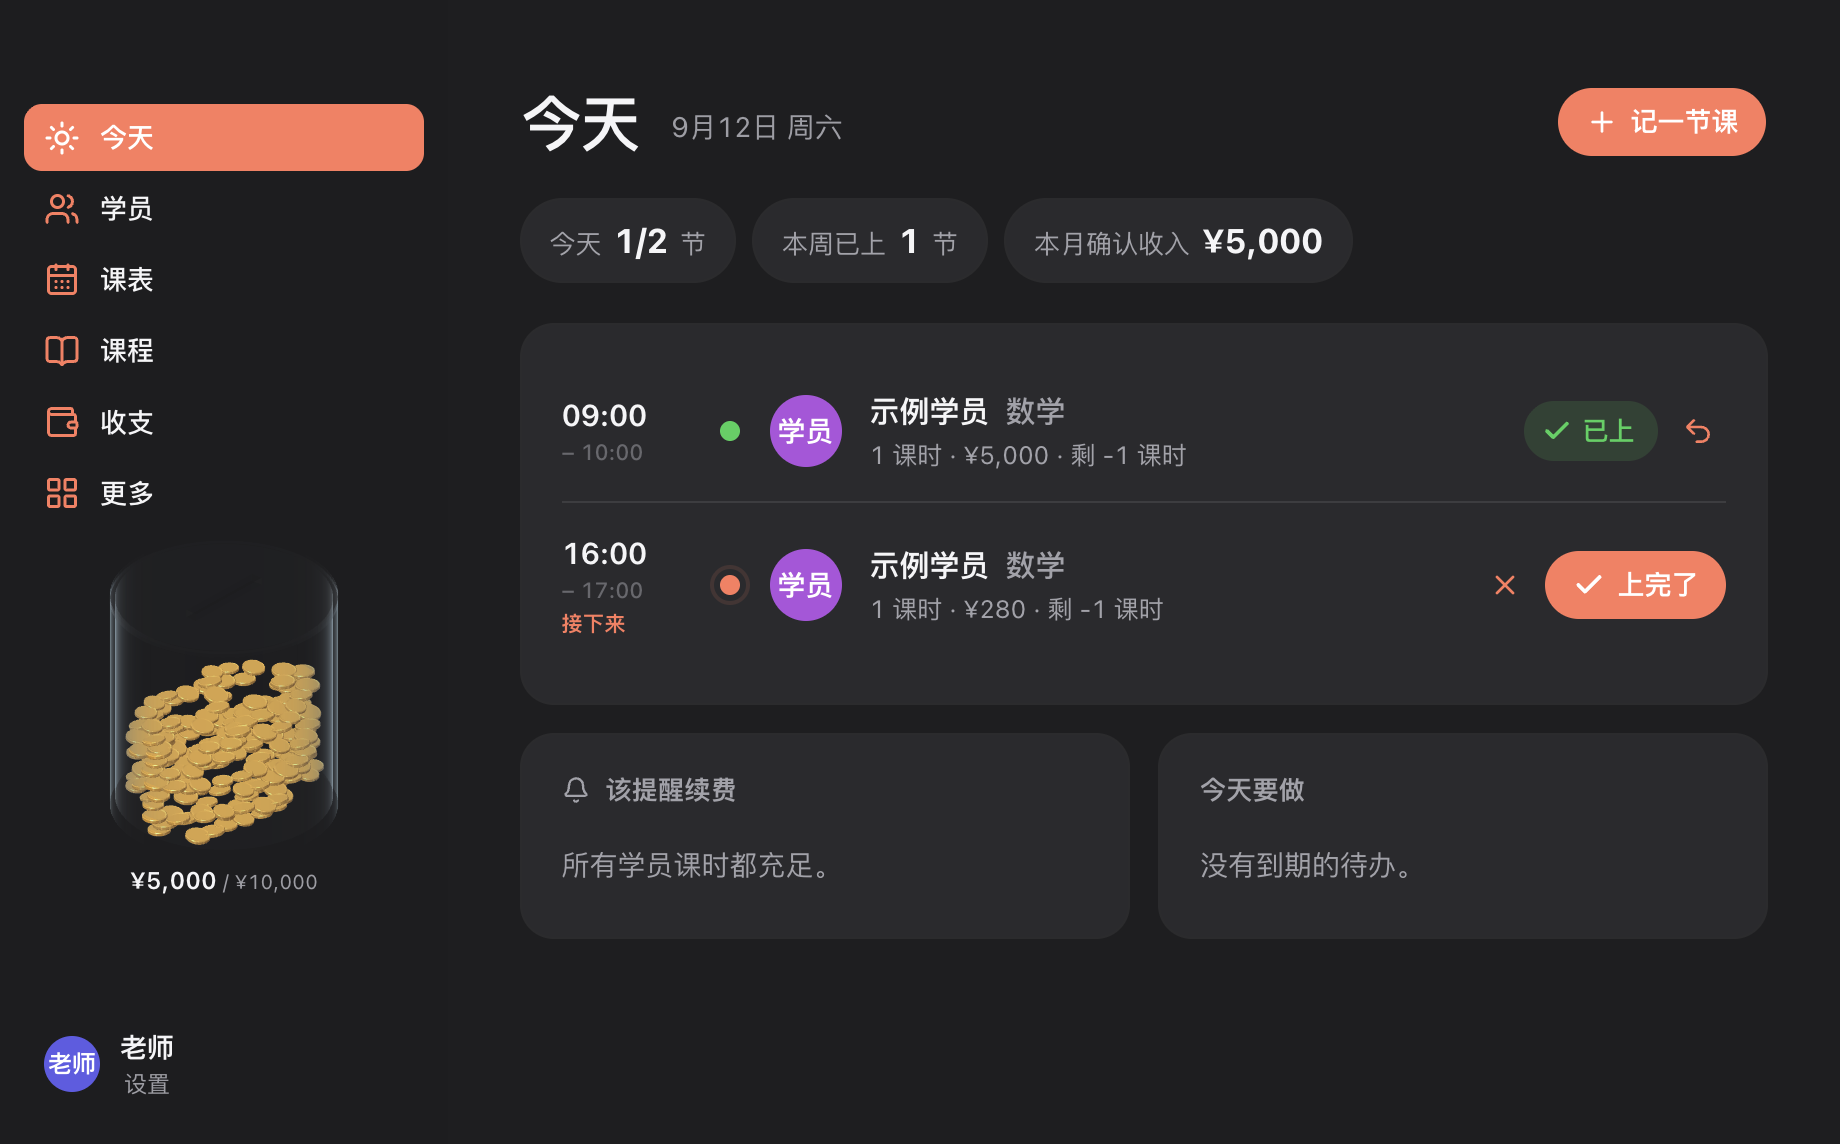
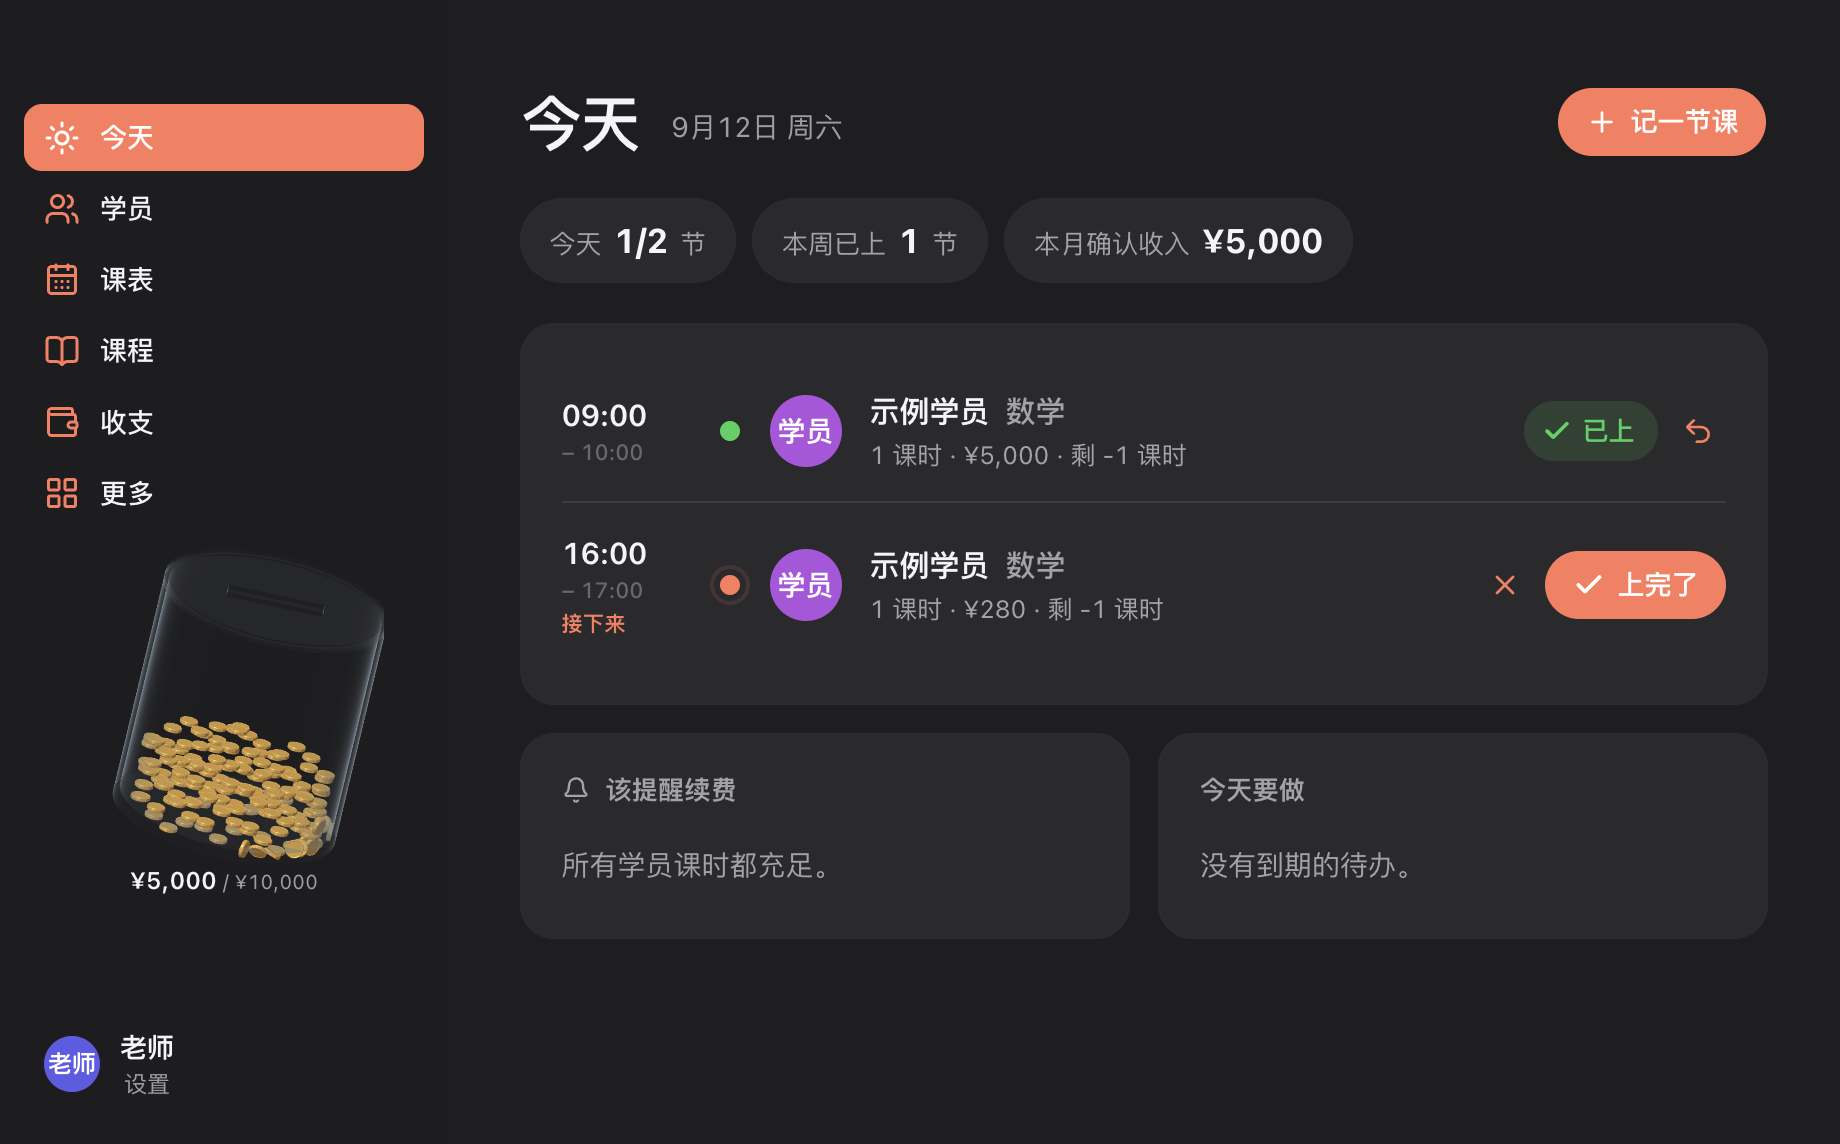
fix: harden 3D jar physics lifecycle

Changed region(s): [[0.062, 0.4895, 0.2168, 0.7649]]

diff --git a/src/core/jar-physics-3d.ts b/src/core/jar-physics-3d.ts
@@ -66,6 +66,7 @@ export async function createJarPhysics3D(options: JarPhysicsOptions) {
   const world = new RAPIER.World({ x: 0, y: -32, z: 0 });
   world.timestep = 1 / 60;
   world.maxCcdSubsteps = 2;
+  let currentHeight = options.height;
   const container = world.createRigidBody(RAPIER.RigidBodyDesc.kinematicPositionBased());
   world.createCollider(
     RAPIER.ColliderDesc.cylinder(0.06, options.radius)
@@ -77,23 +78,68 @@ export async function createJarPhysics3D(options: JarPhysicsOptions) {
   const wallSegments = 32;
   const wallThickness = 0.035;
   const halfTangent = Math.tan(Math.PI / wallSegments) * (options.radius + wallThickness) * 1.05;
-  for (let i = 0; i < wallSegments; i++) {
-    const angle = i / wallSegments * Math.PI * 2;
-    const rotation = Math.PI / 2 - angle;
-    const distance = options.radius + wallThickness;
-    world.createCollider(
-      RAPIER.ColliderDesc.cuboid(halfTangent, options.height / 2, wallThickness)
-        .setTranslation(Math.cos(angle) * distance, options.height / 2, Math.sin(angle) * distance)
-        .setRotation({ x: 0, y: Math.sin(rotation / 2), z: 0, w: Math.cos(rotation / 2) })
-        .setFriction(0.78)
-        .setRestitution(0.04),
-      container,
-    );
-  }
+  const wallColliders: RAPIER.Collider[] = [];
   const coins = new Map<string, PhysicsCoin>();
-  let bulkColliders: RAPIER.Collider[] = [];
+  const bulkColliders: RAPIER.Collider[] = [];
+  let bulkFill = 0;
   let jarRotation = { x: 0, y: 0, z: 0, w: 1 };
   let nextId = 1;
+
+  const rebuildWalls = () => {
+    for (let i = 0; i < wallSegments; i++) {
+      const angle = i / wallSegments * Math.PI * 2;
+      const rotation = Math.PI / 2 - angle;
+      const distance = options.radius + wallThickness;
+      const translation = { x: Math.cos(angle) * distance, y: currentHeight / 2, z: Math.sin(angle) * distance };
+      const existing = wallColliders[i];
+      if (existing) {
+        existing.setHalfExtents({ x: halfTangent, y: currentHeight / 2, z: wallThickness });
+        existing.setTranslationWrtParent(translation);
+      } else {
+        wallColliders.push(world.createCollider(
+          RAPIER.ColliderDesc.cuboid(halfTangent, currentHeight / 2, wallThickness)
+          .setTranslation(Math.cos(angle) * distance, currentHeight / 2, Math.sin(angle) * distance)
+          .setRotation({ x: 0, y: Math.sin(rotation / 2), z: 0, w: Math.cos(rotation / 2) })
+          .setFriction(0.78)
+          .setRestitution(0.04),
+          container,
+        ));
+      }
+    }
+  };
+  const rebuildBulk = () => {
+    const target = bulkFill * currentHeight * 0.82;
+    if (!target) {
+      for (const collider of bulkColliders) collider.setEnabled(false);
+      return;
+    }
+    const terraces = [
+      { radius: options.radius * 0.82, height: target * 0.58 },
+      { radius: options.radius * 0.58, height: target * 0.8 },
+      { radius: options.radius * 0.32, height: target },
+    ];
+    for (const [index, terrace] of terraces.entries()) {
+      let collider = bulkColliders[index];
+      if (!collider) {
+        collider = world.createCollider(
+          RAPIER.ColliderDesc.cylinder(terrace.height / 2, terrace.radius)
+          .setTranslation(0, terrace.height / 2, 0)
+          .setFriction(0.26)
+          .setFrictionCombineRule(RAPIER.CoefficientCombineRule.Min)
+          .setRestitution(0.02),
+          container,
+        );
+        bulkColliders.push(collider);
+      }
+      collider.setEnabled(target > 0);
+      if (target > 0) {
+        collider.setHalfHeight(terrace.height / 2);
+        collider.setRadius(terrace.radius);
+        collider.setTranslationWrtParent({ x: 0, y: terrace.height / 2, z: 0 });
+      }
+    }
+  };
+  rebuildWalls();
 
   return {
     addCoin(input: AddPhysicsCoinOptions) {
@@ -106,7 +152,7 @@ export async function createJarPhysics3D(options: JarPhysicsOptions) {
       const id = `coin-${nextId++}`;
       const localPosition = {
         x: (input.random() - 0.5) * 0.22,
-        y: options.height - 0.25,
+        y: currentHeight - 0.25,
         z: (input.random() - 0.5) * 0.22,
       };
       const position = input.position ?? rotateVector(localPosition, jarRotation);
@@ -164,24 +210,16 @@ export async function createJarPhysics3D(options: JarPhysicsOptions) {
       return [...coins.values()].some((coin) => !coin.body.isSleeping());
     },
     setBulkFill(fill: number) {
-      for (const collider of bulkColliders) world.removeCollider(collider, false);
-      bulkColliders = [];
-      const target = Math.max(0, Math.min(1, fill)) * options.height * 0.82;
-      if (!target) return;
-      for (const terrace of [
-        { radius: options.radius * 0.82, height: target * 0.58 },
-        { radius: options.radius * 0.58, height: target * 0.8 },
-        { radius: options.radius * 0.32, height: target },
-      ]) {
-        bulkColliders.push(world.createCollider(
-          RAPIER.ColliderDesc.cylinder(terrace.height / 2, terrace.radius)
-            .setTranslation(0, terrace.height / 2, 0)
-            .setFriction(0.26)
-            .setFrictionCombineRule(RAPIER.CoefficientCombineRule.Min)
-            .setRestitution(0.02),
-          container,
-        ));
-      }
+      bulkFill = Math.max(0, Math.min(1, fill));
+      rebuildBulk();
+    },
+    setHeight(height: number) {
+      const nextHeight = Math.max(0.5, height);
+      if (Math.abs(nextHeight - currentHeight) < 0.001) return;
+      currentHeight = nextHeight;
+      rebuildWalls();
+      rebuildBulk();
+      for (const coin of coins.values()) coin.body.wakeUp();
     },
     setJarTilt(x: number, z: number) {
       const hx = x / 2;

diff --git a/src/ui/widgets/SavingsJar.tsx b/src/ui/widgets/SavingsJar.tsx
@@ -11,7 +11,6 @@ import { useLocalDay } from "./useLocalDay";
 import { createJarRenderer } from "./jar-webgl";
 import "./savings-jar.css";
 
-const IDENTITY: Quaternion = { x: 0, y: 0, z: 0, w: 1 };
 const COIN_RADIUS = 0.082;
 const COIN_HALF_HEIGHT = 0.018;
 
@@ -98,15 +97,16 @@ export function SavingsJar() {
         return () => undefined;
       }
       let sceneHeight = Math.max(140, Math.round(canvas.getBoundingClientRect().height));
-      const physicsHeight = Math.max(1.7, (sceneHeight - 45) / 56);
+      let physicsHeight = Math.max(1.7, (sceneHeight - 45) / 56);
       const resize = () => {
         const dpr = window.devicePixelRatio || 1;
         sceneHeight = Math.max(140, Math.round(canvas.getBoundingClientRect().height));
         canvas.width = Math.round(160 * dpr);
         canvas.height = Math.round(sceneHeight * dpr);
         renderer.resize(sceneHeight);
+        return Math.max(1.7, (sceneHeight - 45) / 56);
       };
-      resize();
+      physicsHeight = resize();
       let physics;
       try {
         physics = await createJarPhysics3D({ height: physicsHeight, radius: 0.95 });
@@ -118,6 +118,7 @@ export function SavingsJar() {
         return () => undefined;
       }
       canvas.dataset.physics = "rapier3d";
+      canvas.dataset.physicsHeight = physicsHeight.toFixed(4);
       const root = document.documentElement;
       const reduce = window.matchMedia("(prefers-reduced-motion: reduce)");
       let stable: PhysicsCoinPose[] = [];
@@ -181,15 +182,17 @@ export function SavingsJar() {
         }
         for (let i = 0; i < 240 && physics.hasActiveBodies(); i++) physics.step();
       };
-      const rebuild = () => {
+      const rebuild = (resetDynamic = true) => {
         current = jarState(useStore.getState().s);
         const pendingAmount = [...unsettled.values()].reduce((sum, amount) => sum + amount, 0);
         const fill = Math.max(0, Math.min(1, (current.amount - pendingAmount) / current.capacity));
         stable = visualPile(fill, physicsHeight);
-        physics.clearCoins();
         physics.setBulkFill(fill);
-        physics.setJarTilt(tiltX, tiltZ);
-        seedSurface(fill);
+        if (resetDynamic) {
+          physics.clearCoins();
+          physics.setJarTilt(tiltX, tiltZ);
+          seedSurface(fill);
+        }
         updateEvidence();
         draw();
       };
@@ -284,7 +287,7 @@ export function SavingsJar() {
         pending = scheduleCoins(pending, changes, value, now, delay);
         canvas.dataset.pendingCoins = String(pending.length);
         canvas.dataset.nextCoinDelay = String((pending[0]?.at ?? now) - now);
-        rebuild();
+        rebuild(false);
         draw(now);
         startLoop(now, outgoing.length ? 0 : Math.max(0, (pending[0]?.at ?? now) - now));
       });
@@ -307,7 +310,25 @@ export function SavingsJar() {
         startLoop();
       };
       const up = () => { pointerX = null; };
-      const redraw = () => { resize(); draw(); };
+      const redraw = () => {
+        const nextHeight = resize();
+        if (Math.abs(nextHeight - physicsHeight) >= 0.001) {
+          const ledgerAnimationInProgress = pending.length > 0 || outgoing.length > 0 || unsettled.size > 0;
+          physicsHeight = nextHeight;
+          physics.setHeight(physicsHeight);
+          rebuild(false);
+          canvas.dataset.physicsHeight = physicsHeight.toFixed(4);
+          if (!ledgerAnimationInProgress || reduce.matches) {
+            for (let i = 0; i < 240 && physics.hasActiveBodies(); i++) physics.step();
+            draw();
+            stopLoop();
+          } else {
+            startLoop();
+          }
+          return;
+        }
+        draw();
+      };
       const lost = (event: Event) => {
         event.preventDefault();
         stopLoop();
@@ -316,7 +337,10 @@ export function SavingsJar() {
       const restored = () => {
         renderer.dispose();
         renderer = createJarRenderer(canvas);
-        redraw();
+        physicsHeight = resize();
+        physics.setHeight(physicsHeight);
+        canvas.dataset.physicsHeight = physicsHeight.toFixed(4);
+        finishLedgerAnimation();
       };
       canvas.addEventListener("pointerdown", down);
       canvas.addEventListener("pointermove", move);

diff --git a/tests/jar-physics-3d.test.ts b/tests/jar-physics-3d.test.ts
@@ -155,4 +155,25 @@ describe("Rapier 储蓄罐物理适配层", () => {
     expect(pose!.rotation.z).toBeCloseTo(Math.sin(0.1), 4);
     physics.dispose();
   });
+
+  it("罐体高度变化时同步碰撞容器、现有金币和投币口", async () => {
+    const physics = await createJarPhysics3D({ height: 4.6, radius: 0.95 });
+    physics.addCoin({
+      radius: 0.11,
+      halfHeight: 0.025,
+      random: () => 0.5,
+      position: { x: 0, y: 2.3, z: 0 },
+    });
+
+    physics.setHeight(2.3);
+    expect(physics.poses()[0]!.position.y).toBeCloseTo(2.3, 4);
+
+    for (let i = 0; i < 240 && physics.hasActiveBodies(); i++) physics.step();
+    expect(physics.poses()[0]!.position.y).toBeGreaterThanOrEqual(0.02);
+    expect(physics.hasActiveBodies()).toBe(false);
+
+    physics.addCoin({ radius: 0.11, halfHeight: 0.025, random: () => 0.5 });
+    expect(physics.poses()[1]!.position.y).toBeCloseTo(2.05, 4);
+    physics.dispose();
+  });
 });

diff --git a/docs/储蓄罐交付.md b/docs/储蓄罐交付.md
@@ -70,7 +70,7 @@ posterShare.stop(sessionId?: string): Promise<void>
 
 ## 最后视觉调整
 
-按用户反馈改为修长圆柱鱼缸比例，紧接「更多」下方；宽160px，高度随侧栏空间调整，金币不纵向拉伸。物理重力随落差调整，最后发射的币仍能在余下300ms接近底部。最小窗口布局单独截图与检查（qa/jar/compact.png）。
+按用户反馈改为修长圆柱鱼缸比例，紧接「更多」下方；宽160px，高度随侧栏空间调整，金币不纵向拉伸。Rapier 容器高度与可视罐同步，连续落币使用 1800ms 动画硬截止。最小窗口布局单独截图与检查（qa/jar/compact.png）。
 
 ## 真实三维模型（最新调整）
 
@@ -78,6 +78,8 @@ posterShare.stop(sessionId?: string): Promise<void>
 - `src/ui/widgets/jar-webgl.ts`：原生 WebGL 2、金属光照、透明罐壁、深度遮挡、拖动旋转、GPU资源清理。
 - `scripts/export-jar-models.mjs`：共享几何导出 `docs/models/savings-jar.glb` 和 `gold-coin.glb`，不依赖外部3D引擎。
 - 真实Electron验证 WebGL 2 与拖动前后画面变化，截图 `qa/jar/rotated.png`。空闲仍无持续动画循环。
-- 渲染模型为真三维；落币碰撞沿用二维PBD，倾斜后颗粒受重力翻滚尚未实现。性能脚本只测物理CPU时间，不代表GPU帧耗时。
+- `src/core/jar-physics-3d.ts` 使用 Rapier 3D：金币是圆柱刚体，罐体由底面、32 段内壁和三层堆体承托碰撞体组成；金币会下落、翻滚、互相碰撞并形成中间略高的堆形。
+- 拖动会更新罐体运动学刚体姿态并唤醒表层金币；倾斜后新金币从旋转后的投币口生成。静止时停止物理帧。
+- 动态刚体上限为 240；历史金额使用有界三维网格和下层碰撞体，不持久化每枚金币姿态。性能脚本测 Rapier CPU 时间，不代表 GPU 帧耗时。
 
-最终检查：71 项测试、typecheck、lint、build 通过；WebGL模型基础网格1488个三角形，拖动视角验证通过；局域网HTTP 200及关闭清理通过。
+最终检查：85 项测试、typecheck、lint、build 通过；WebGL模型基础网格1488个三角形，拖动与真实三维碰撞验证通过；局域网HTTP 200及关闭清理通过。

diff --git a/README.md b/README.md
@@ -24,7 +24,7 @@ A local-first macOS app for independent tutors. React + TypeScript + Electron, S
 
 ## 储蓄罐与收工海报
 
-- 打卡后金额飞向收入统计，硬币落入侧栏储蓄罐；撤销时同步扣回。第一罐累计全部已确认收入，容量可在设置调整，满罐暂不自动清空。
+- 打卡后金额飞向收入统计，三维金属金币以刚体碰撞落入透明圆柱罐并逐渐堆成小山；拖动罐体时表层金币会随重力滑动。撤销时同步扣回。第一罐累计全部已确认收入，容量可在设置调整，满罐暂不自动清空。
 - 今天没有待上课程且至少完成一节时，点击时间轴下方「收工」，再点「生成海报」。班课按教学场次计数，3 人上 2 课时显示 1 节、2 课时。
 - 海报为 1080×1350 PNG，可保存到电脑；商业版复用成绩卡的去水印权益。
 - **生成海报时会临时开一个本地端口，60 秒后自动关闭**；关闭卡片、重载或退出也会立即关闭。仅绑定本机局域网 IPv4，随机端口和随机路径，只提供当前一张海报，不开放目录、不上传云端。

diff --git a/COMPONENT-API-DOCS.md b/COMPONENT-API-DOCS.md
@@ -1,0 +1,16 @@
+# 组件接口
+
+## SavingsJar
+
+`src/ui/widgets/SavingsJar.tsx` 从 Zustand store 读取账目状态，不接收 props。组件通过 `JarFeedback` 响应打卡和撤销，通过 `jarState()` 计算金额与容量。
+
+- 渲染：原生 WebGL 2；罐体和金币使用真实三维网格。
+- 物理：`createJarPhysics3D({ height, radius })` 返回隔离的 Rapier 世界。
+- 活跃金币：最多 240 个圆柱刚体，姿态包含三维位置、四元数、半径和半厚度。
+- 历史金额：重建为有界静态网格；三层同心碰撞台阶承托动态表层。
+- 拖拽：`setJarTilt(x, z)` 更新运动学罐体并唤醒动态金币。
+- 生命周期：全部金币休眠后停止动画帧；卸载时释放 WebGL 与 Rapier 资源。
+- 持久化：只保存 `coinValue` 与 `jarCapacity`，不保存刚体姿态。
+- 减少动态效果：跳过落币与飞行动画，立即按账目重建。
+
+`src/core/jar-physics-3d.ts` 的显式 `position` 使用世界坐标；省略时，金币从当前罐体姿态下的投币口局部坐标生成。

diff --git a/HANDOFF.md b/HANDOFF.md
@@ -30,4 +30,4 @@ node scripts/benchmark-jar.mjs
 脚本使用临时目录和内存数据，绝不打开正式数据库。
 原有 src/index.html 内联外观恢复脚本被 CSP 阻止，验收 evidence.json 单列该基线问题；未放宽 CSP。
 
-三维模型：src/core/jar-mesh.ts；渲染：src/ui/widgets/jar-webgl.ts；导出：node scripts/export-jar-models.mjs。旋转不改变账目，完整三维颗粒物理尚未实现。
+三维模型：src/core/jar-mesh.ts；渲染：src/ui/widgets/jar-webgl.ts；物理：src/core/jar-physics-3d.ts；导出：node scripts/export-jar-models.mjs。Rapier 圆柱刚体已接入落币、堆叠、碰撞和拖拽倾斜；旋转不改变账目。
